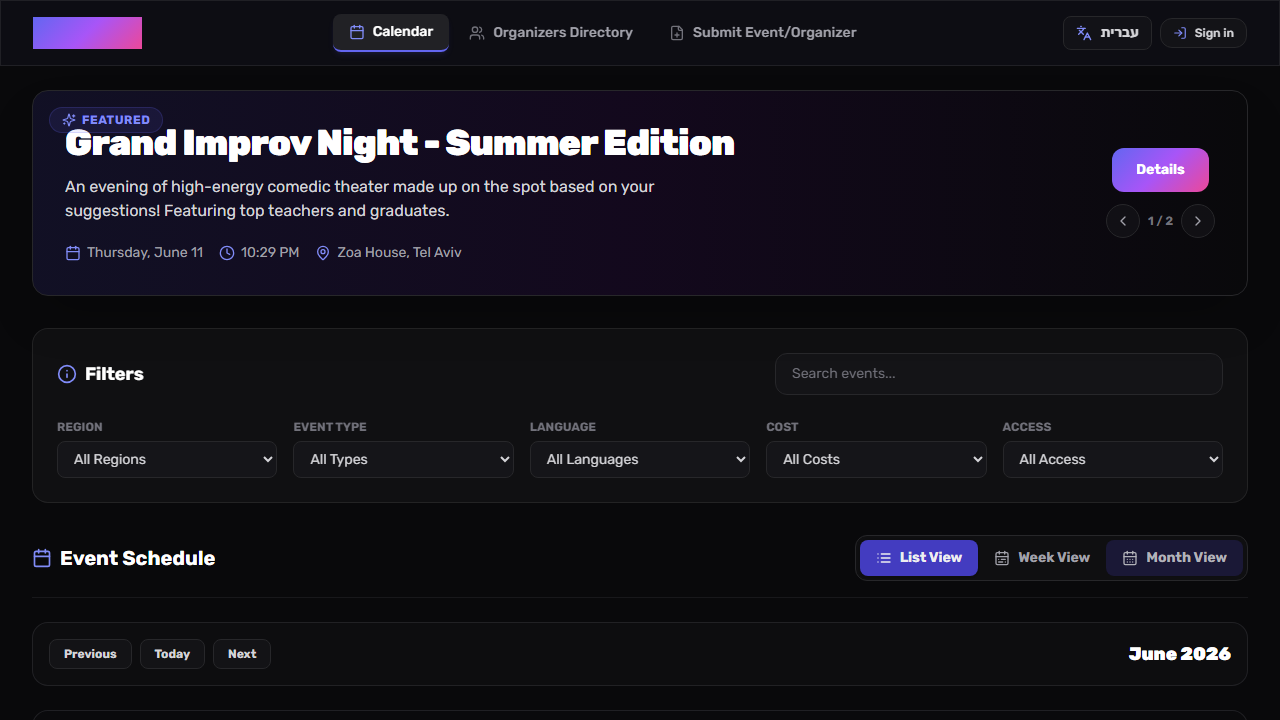
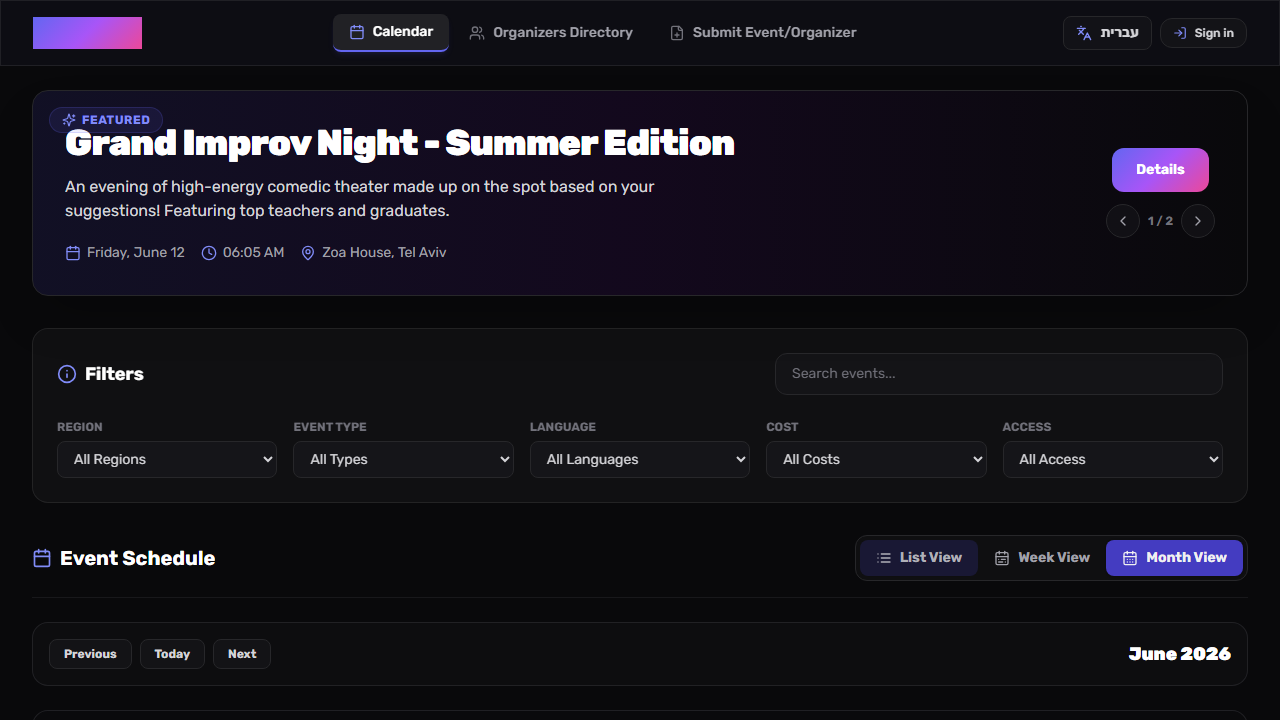
fix: resolve month-view panel desync, map event type, and clean seed data

Changed region(s): [[0.8438, 0.7333, 0.9688, 0.825], [0.6562, 0.7333, 0.7812, 0.825], [0.0625, 0.3361, 0.375, 0.3667]]

diff --git a/src/app/[locale]/page.tsx b/src/app/[locale]/page.tsx
@@ -57,7 +57,7 @@ export default function Home() {
   // View & Date Navigation State
   const [viewMode, setViewMode] = useState<"list" | "week" | "month">("list");
   const [currentDate, setCurrentDate] = useState<Date>(() => new Date());
-  const [selectedCalendarDay, setSelectedCalendarDay] = useState<Date | null>(() => new Date());
+  const [selectedCalendarDay, setSelectedCalendarDay] = useState<Date | null>(null);
 
   useEffect(() => {
     async function load() {
@@ -104,35 +104,41 @@ export default function Home() {
     // Event Type
     if (selectedType !== "all") {
       const typeLower = selectedType.toLowerCase();
-      // Jam, Show, Workshop, Festival
-      if (
-        typeLower === "show" &&
-        !e.name.toLowerCase().includes("show") &&
-        !e.name.toLowerCase().includes("מופע") &&
-        !e.description.toLowerCase().includes("show")
-      )
-        return false;
-      if (
-        typeLower === "jam" &&
-        !e.name.toLowerCase().includes("jam") &&
-        !e.name.toLowerCase().includes("ג'אם") &&
-        !e.description.toLowerCase().includes("jam")
-      )
-        return false;
-      if (
-        typeLower === "workshop" &&
-        !e.name.toLowerCase().includes("workshop") &&
-        !e.name.toLowerCase().includes("סדנ") &&
-        !e.description.toLowerCase().includes("workshop")
-      )
-        return false;
-      if (
-        typeLower === "festival" &&
-        !e.name.toLowerCase().includes("festival") &&
-        !e.name.toLowerCase().includes("פסטיבל") &&
-        !e.description.toLowerCase().includes("festival")
-      )
-        return false;
+      if (e.type !== undefined && e.type !== null) {
+        if (e.type.toLowerCase() !== typeLower) {
+          return false;
+        }
+      } else {
+        // Jam, Show, Workshop, Festival
+        if (
+          typeLower === "show" &&
+          !e.name.toLowerCase().includes("show") &&
+          !e.name.toLowerCase().includes("מופע") &&
+          !e.description.toLowerCase().includes("show")
+        )
+          return false;
+        if (
+          typeLower === "jam" &&
+          !e.name.toLowerCase().includes("jam") &&
+          !e.name.toLowerCase().includes("ג'אם") &&
+          !e.description.toLowerCase().includes("jam")
+        )
+          return false;
+        if (
+          typeLower === "workshop" &&
+          !e.name.toLowerCase().includes("workshop") &&
+          !e.name.toLowerCase().includes("סדנ") &&
+          !e.description.toLowerCase().includes("workshop")
+        )
+          return false;
+        if (
+          typeLower === "festival" &&
+          !e.name.toLowerCase().includes("festival") &&
+          !e.name.toLowerCase().includes("פסטיבל") &&
+          !e.description.toLowerCase().includes("festival")
+        )
+          return false;
+      }
     }
     // Language
     if (selectedLanguage !== "all" && e.language !== selectedLanguage) return false;
@@ -837,7 +843,7 @@ export default function Home() {
 
               {/* Month View Selected Day Events Panel */}
               {selectedCalendarDay && (
-                <div className="border border-zinc-800 bg-zinc-900/10 rounded-2xl p-5 flex flex-col gap-4">
+                <div className="md:hidden border border-zinc-800 bg-zinc-900/10 rounded-2xl p-5 flex flex-col gap-4">
                   <div className="flex justify-between items-center border-b border-zinc-900 pb-2">
                     <h4 className="text-sm sm:text-md font-bold text-white flex items-center gap-2">
                       <CalendarIcon className="w-4 h-4 text-indigo-400" />

diff --git a/scripts/seed.js b/scripts/seed.js
@@ -192,8 +192,7 @@ const EVENTS = [
     name: "Carmel Improv Festival 2026",
     organizerId: "org-haifa-theater",
     organizerName: "Haifa Improv Theater",
-    description:
-      "Three days of shows, jams, and international guest workshops on the bay. Re-rendered static index test.",
+    description: "Three days of shows, jams, and international guest workshops on the bay.",
     time: Date.now() + 8 * 24 * 60 * 60 * 1000, // 8 days in future
     endTime: Date.now() + 11 * 24 * 60 * 60 * 1000, // 3 day festival
     recurrence: "one-time",

diff --git a/src/lib/db.ts b/src/lib/db.ts
@@ -426,6 +426,7 @@ export async function getEvents(filters?: {
       events.push({
         id: docOfSnap.id,
         name: data.name || "",
+        type: data.type,
         organizerId: data.organizerId,
         organizerName: data.organizerName || "Unknown",
         description: data.description || "",
@@ -571,6 +572,7 @@ export async function getOrganizerDetails(id: string): Promise<{
       events.push({
         id: evtDoc.id,
         name: evtData.name || "",
+        type: evtData.type,
         organizerId: id,
         organizerName: organizer.name,
         description: evtData.description || "",